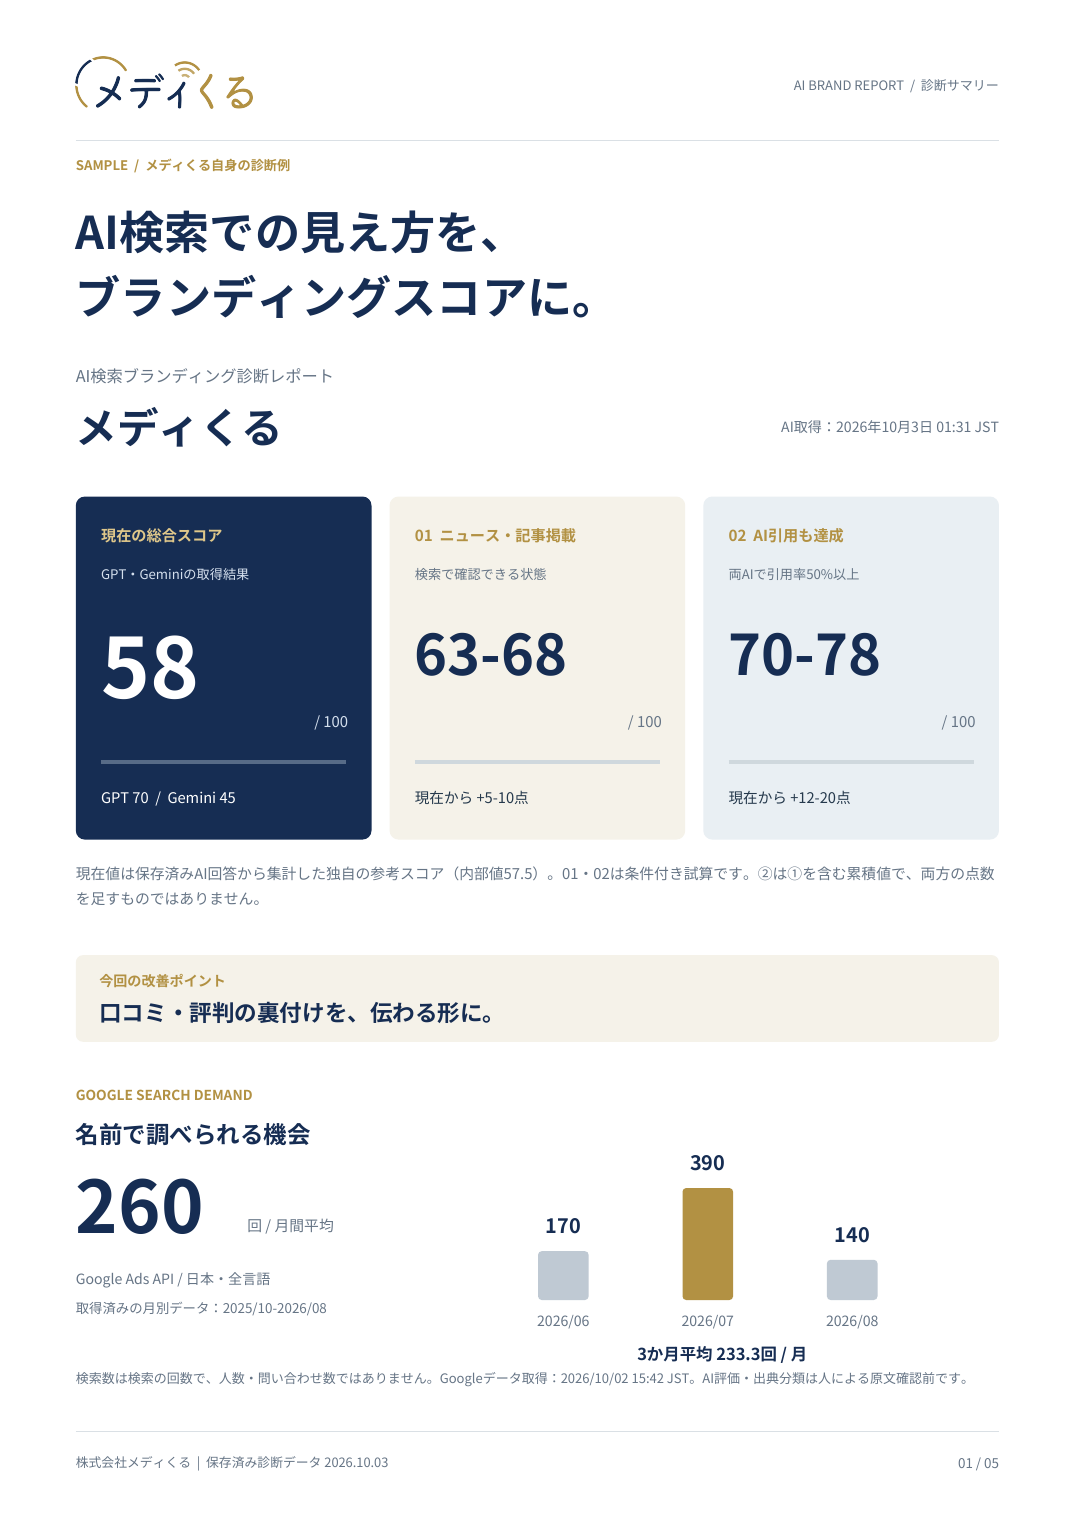
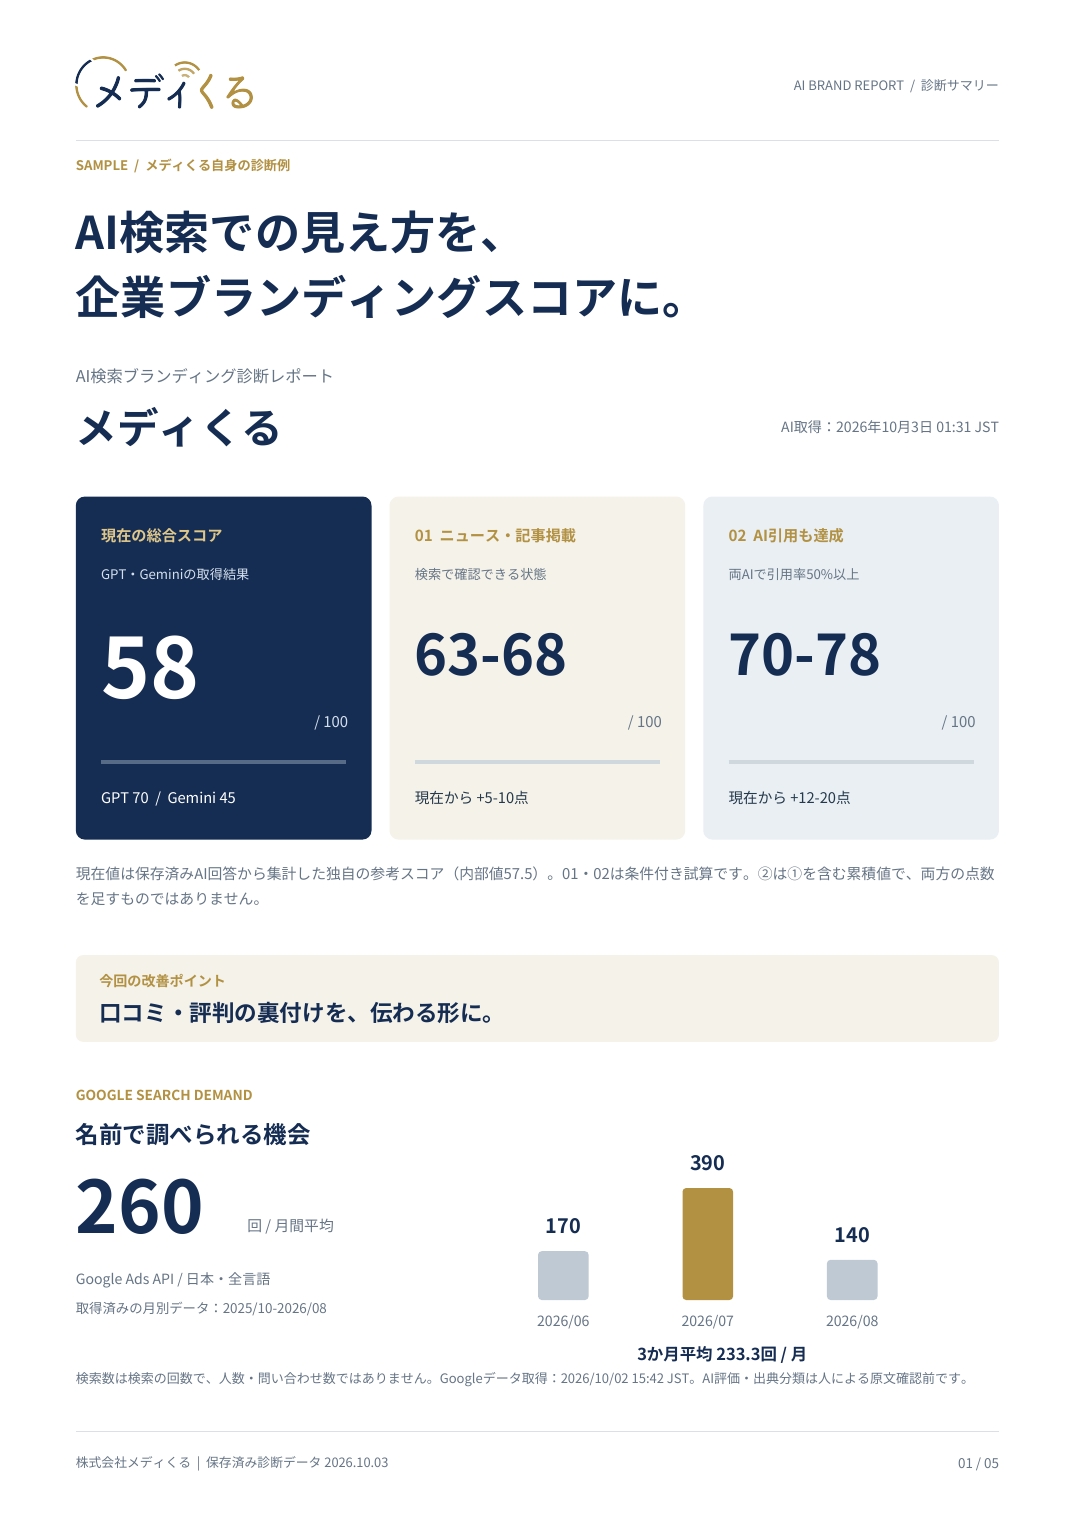
Unify report terminology as company branding score

Changed region(s): [[0.0614, 0.1854, 0.614, 0.2163]]

diff --git a/report-benefit-20261003/hp.html b/report-benefit-20261003/hp.html
@@ -5,7 +5,7 @@
 @media(max-width:620px){.header{margin:0 20px}.header p{font-size:8px;letter-spacing:.06em}.section{padding:38px 20px 28px}.intro{display:block}.kicker{font-size:10px;margin-bottom:19px}.gift{font-size:10px;margin-bottom:18px}h1{font-size:30px;line-height:1.65;letter-spacing:-.045em;margin-bottom:17px}.lead{font-size:13px}.gift-name{font-size:17px;margin-top:21px}.gift-name small{font-size:11px}.display{min-height:435px;margin:15px -2px 0}.report{width:65%}.halo{width:340px;height:340px}.sample-tag{font-size:9px;bottom:1px}.benefits{grid-template-columns:1fr;margin:28px 0;gap:22px;padding-top:22px}.benefit+.benefit::before{display:none}.benefit{display:grid;grid-template-columns:28px 1fr;gap:0 8px}.benefit .num{grid-row:1/3;padding-top:3px}.benefit h2{margin:0 0 3px;font-size:17px}.benefit p{grid-column:2;font-size:12px}.cta-panel{padding:25px 17px;gap:20px}.cta-panel h2{font-size:21px}.cta-panel .condition{font-size:10px}.primary{min-width:0;width:100%;font-size:12px;padding:17px 13px;gap:13px}.cta-actions{width:100%}.secondary{font-size:11px}.flow{margin:0 20px;padding-top:28px}.flow ol{grid-template-columns:1fr;gap:12px}.flow h2{font-size:14px}.flow li{font-size:12px}.fine{font-size:9px}.preview-note{font-size:9px}}
 @media(max-width:360px){h1{font-size:24px}.header p{font-size:7px}.display{min-height:370px}.gift-name{font-size:15px}.cta-panel h2{font-size:18px}.primary{font-size:11px}.report{width:66%}.sample-tag{font-size:8px}}@media(prefers-reduced-motion:reduce){html{scroll-behavior:auto}}
 </style><script id="embedded-benefit-mode">if(new URLSearchParams(location.search).has('embed'))document.documentElement.classList.add('is-embedded');</script><style>.is-embedded .lp-header,.is-embedded .header,.is-embedded .flow{display:none!important}.is-embedded body{margin:0!important}.is-embedded .preview-note{display:none!important}</style><link rel="stylesheet" href="full-report.css"><link rel="stylesheet" href="consultation-gift.css?v=search-branding"><link rel="stylesheet" href="report-placement-theme.css?v=center-2"></head><body class="gift-hp"><header class="header"><img src="assets/logo.png" alt="メディくる"><p>FREE CONSULTATION BENEFIT</p></header>
-<main><section class="report-benefit report-benefit--hp" aria-labelledby="report-benefit-title"><div class="report-hp-hero"><div class="report-hp-copy"><p class="report-gift-label">無料相談 ご参加特典</p><p class="report-product">AI検索ブランディング診断</p><h1 id="report-benefit-title">御社の<br><span>ブランディングスコア</span><br>がわかる。</h1><p class="report-description">AIにどう紹介されているかを採点し、<br>改善のポイントを御社専用のレポートに。</p><p class="report-hp-present">診断レポートを<strong>無料プレゼント！</strong></p><p class="report-target">会社名・社長名・サービス名などを診断</p></div><figure class="gift-sample gift-booklet report-booklet"><button class="gift-booklet-stage" type="button" data-open-report aria-label="全5ページの診断レポートサンプルを拡大して見る"><img class="gift-booklet-sheet gift-sheet-5" src="assets/report-05.png" alt="5ページ目：GPTの採点根拠" width="1075" height="1521" loading="eager"><img class="gift-booklet-sheet gift-sheet-4" src="assets/report-04.png" alt="4ページ目：Geminiの採点根拠" width="1075" height="1521" loading="eager"><img class="gift-booklet-sheet gift-sheet-3" src="assets/report-03.png?v=evidence-20261004" alt="3ページ目：改善の進め方と試算" width="1075" height="1521" loading="eager"><img class="gift-booklet-sheet gift-sheet-2" src="assets/report-02.png" alt="2ページ目：GPT・Geminiの評価比較" width="1075" height="1521" loading="eager"><img class="gift-booklet-sheet gift-sheet-1" src="assets/report-01.png" alt="1ページ目：診断サマリー" width="1075" height="1521" loading="eager"></button>
+<main><section class="report-benefit report-benefit--hp" aria-labelledby="report-benefit-title"><div class="report-hp-hero"><div class="report-hp-copy"><p class="report-gift-label">無料相談 ご参加特典</p><p class="report-product">AI検索ブランディング診断</p><h1 id="report-benefit-title">御社の<br><span>企業ブランディングスコア</span><br>がわかる。</h1><p class="report-description">AIにどう紹介されているかを採点し、<br>改善のポイントを御社専用のレポートに。</p><p class="report-hp-present">診断レポートを<strong>無料プレゼント！</strong></p><p class="report-target">会社名・社長名・サービス名などを診断</p></div><figure class="gift-sample gift-booklet report-booklet"><button class="gift-booklet-stage" type="button" data-open-report aria-label="全5ページの診断レポートサンプルを拡大して見る"><img class="gift-booklet-sheet gift-sheet-5" src="assets/report-05.png" alt="5ページ目：GPTの採点根拠" width="1075" height="1521" loading="eager"><img class="gift-booklet-sheet gift-sheet-4" src="assets/report-04.png" alt="4ページ目：Geminiの採点根拠" width="1075" height="1521" loading="eager"><img class="gift-booklet-sheet gift-sheet-3" src="assets/report-03.png?v=evidence-20261004" alt="3ページ目：改善の進め方と試算" width="1075" height="1521" loading="eager"><img class="gift-booklet-sheet gift-sheet-2" src="assets/report-02.png" alt="2ページ目：GPT・Geminiの評価比較" width="1075" height="1521" loading="eager"><img class="gift-booklet-sheet gift-sheet-1" src="assets/report-01.png" alt="1ページ目：診断サマリー" width="1075" height="1521" loading="eager"></button>
 <figcaption><strong>サンプル 全5ページ</strong><button class="report-expand" type="button" data-open-report>サンプルを見る</button></figcaption></figure></div>
 <section class="report-insights" aria-label="レポートでわかること"><h2>レポートでわかる、4つのこと。</h2><div class="report-points">
 <article><span>01</span><div><h3>現在のスコア</h3><p>AIに強みがどれくらい伝わっているか。</p></div></article>
